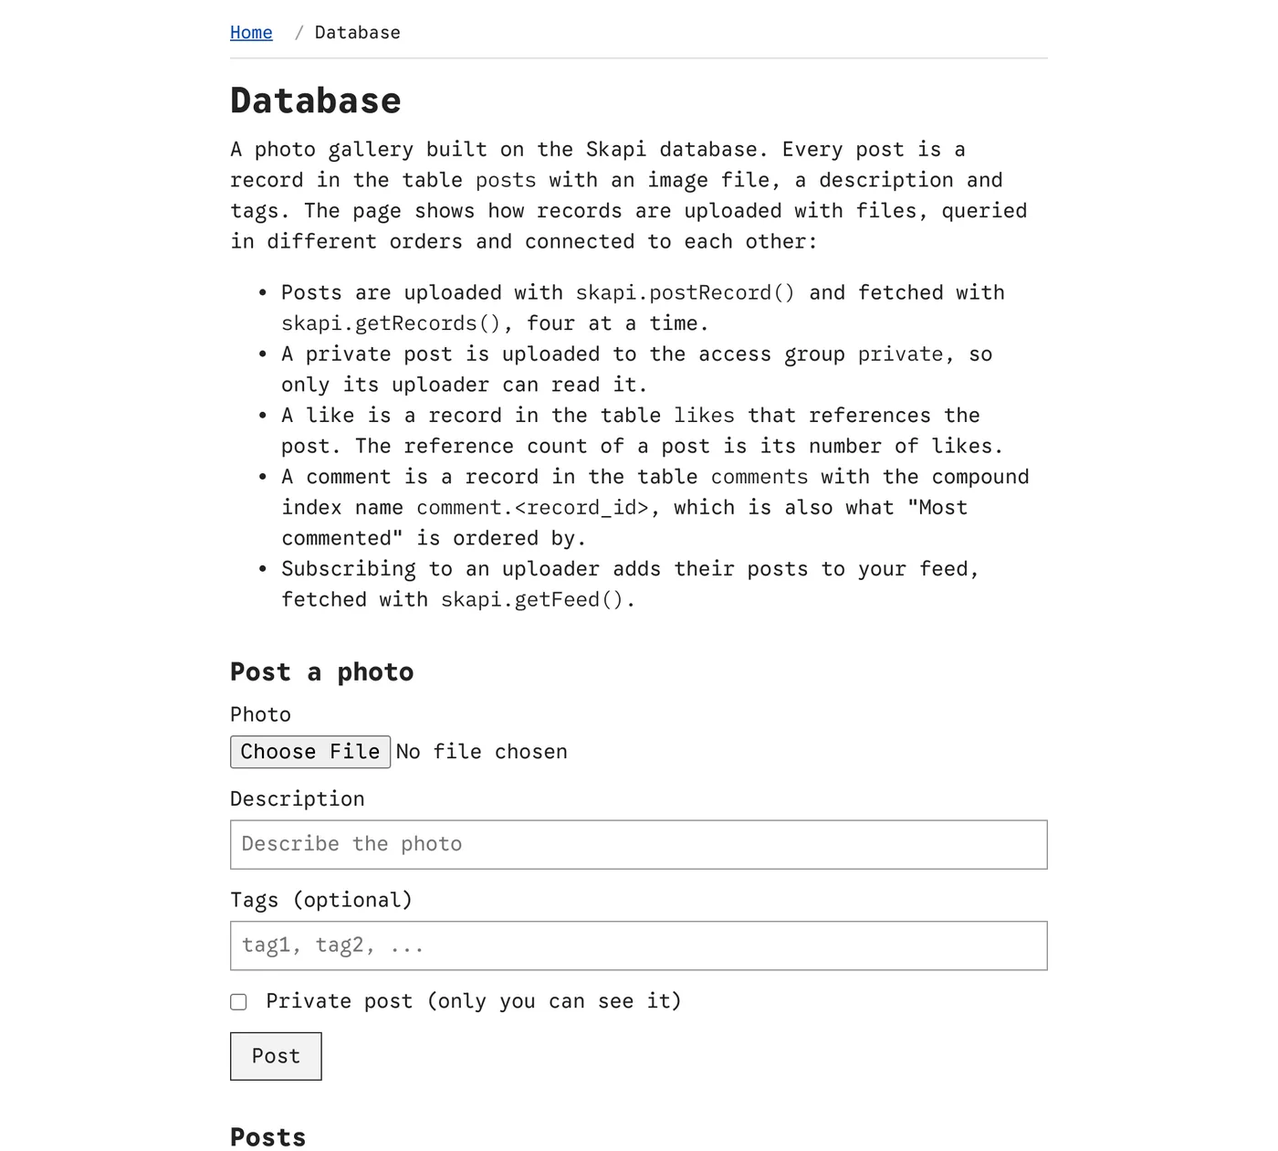
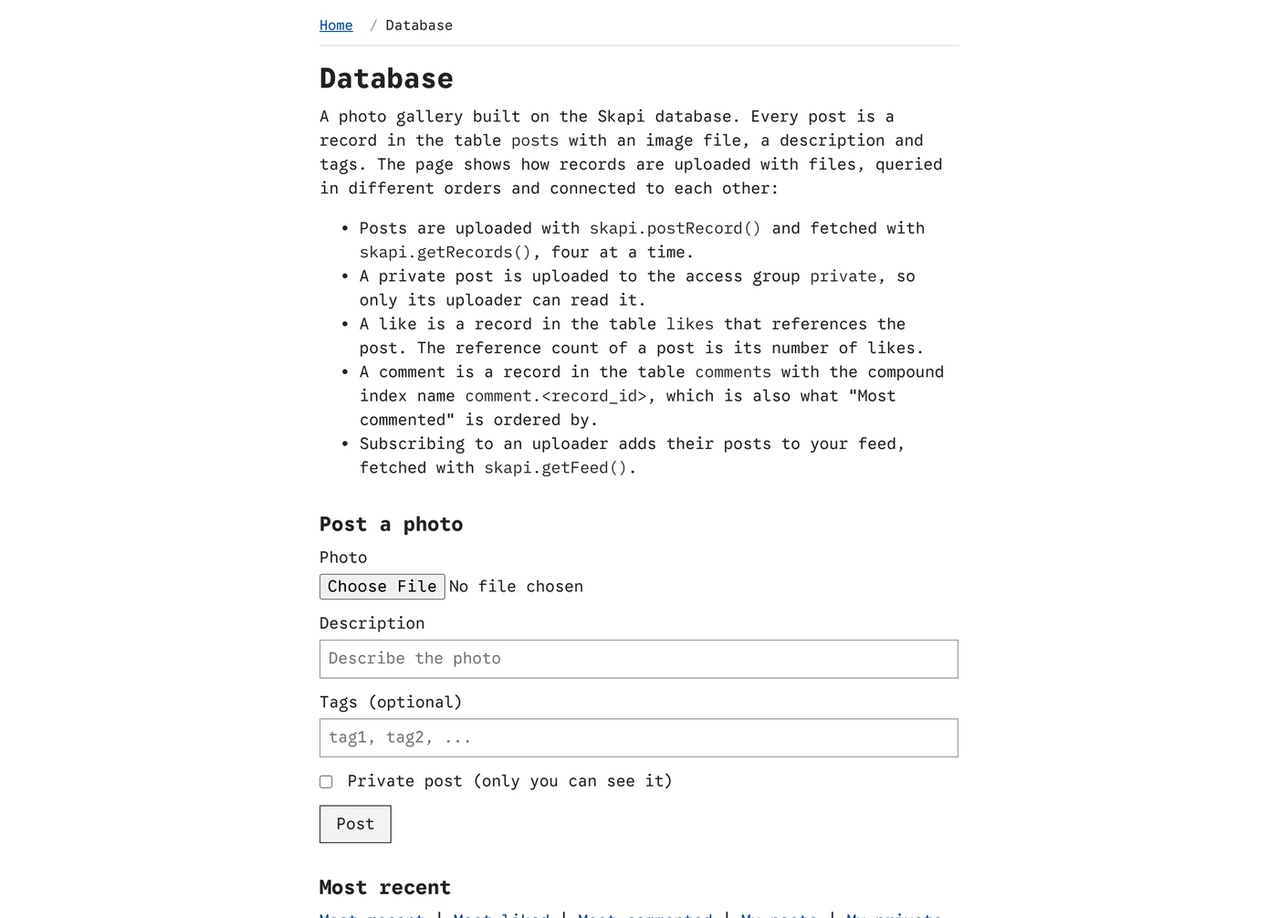
update

diff --git a/full-example/webrtc.md b/full-example/webrtc.md
@@ -1,30 +1,37 @@
 # Full Example: RTC Video Chat
 
-The RTC Video Chat page connects two browsers directly for video, audio, the screen and text with WebRTC, with Skapi doing the signaling over its realtime connection. It needs a logged-in user, and WebRTC works over HTTPS or on `localhost`. Open it in another browser or device with a second account and call each other.
+The RTC Video Chat page is a video call between two users, straight from one browser to the other, with the screen, a text chat and file transfer on the same connection. Skapi does the signaling over its realtime connection. It needs a logged-in user, and WebRTC works over HTTPS or on `localhost`. Open it in another browser or device with a second account and call each other.
 
 <FullExampleDemo page="webrtc.html" label="Open the RTC Video Chat demo" />
 
 You need your [project ID](/full-example/intro.md#have-your-project-id-ready) to open the demo.
 
-![The RTC Video Chat page of the template: an explanation of the signaling, Video, Audio and Screen checkboxes, and the table of users online with a call button per user](/screenshots/template-webrtc.webp)
+![The RTC Video Chat page of the template: a short explanation and the table of users online with a call button per user](/screenshots/template-webrtc.webp)
 
-*`webrtc.html` before a call: what to call with, and the other users on the page, each with a call button.*
+*`webrtc.html` before a call: the other users on the page, each with a call button. The camera and the microphone are always on a call.*
 
-![The page during a call: tiles for your camera, your screen and the other user's camera, buttons to stop sharing, mute the microphone, turn the camera off and hang up, and the data channel message form](/screenshots/template-webrtc-call.webp)
+![The page during a call with both users sharing their screens: four tiles in the order your camera, the other user's camera, your screen and theirs, the buttons, and the chat with its input above the newest message](/screenshots/template-webrtc-call.webp)
 
-*During a call with the screen shared. Each stream has its own tile; the buttons change what is sent without ending the call.*
+*During a call with both screens shared: each side's screen is its own track, so both can share at once. Every tile is 4:3 with the picture centered inside, and the chat keeps the newest message on top, right under the input.*
+
+![The call in fullscreen on a wide screen: the chosen video fills the left, the other videos are thumbnails on the right above the call buttons and the chat](/screenshots/template-webrtc-fullscreen.webp)
+
+*Fullscreen, after clicking a tile: the chosen video on the stage, the others as thumbnails, then the call buttons and the chat, with the input at the bottom. On a phone the layout changes to one video per user; Escape or the Back button leaves fullscreen.*
+
 
 ## What it demonstrates
 
 | Feature | How the page does it |
 | --- | --- |
 | Finding each other | Every visitor of the page joins the realtime group `RTCCall`; `getRealtimeUsers()` and the `USER_JOINED` and `USER_LEFT` notices keep a table of the other users online, with their connection IDs. |
-| Calling | [connectRTC()](/realtime/webRTC.md) with the other user's connection ID and the chosen `media`: the camera, the microphone and the screen, from the checkboxes. `meta` names the kind of call. The call's `connection` promise resolves once the other side accepts. |
-| Receiving a call | The callee gets an `rtc:incoming` realtime message. Its `meta` and `sources` fill the dialog ("Incoming screen share from ... They send their camera, microphone and screen"), and `connectRTC()` on the message accepts with the callee's own checkboxes, or `hangup()` rejects. An `rtc:closed` message closes the dialog when the caller cancels. |
-| The streams | Every `track` event carries `source`. The other user's camera and microphone go to one tile, the screen to another, and `trackmute` hides the screen tile when they stop sharing. The local tiles come from `tracks('camera')` and `tracks('screen')`. |
+| Calling | [connectRTC()](/realtime/webRTC.md) with the other user's connection ID and `media: { audio: true, video: true }`. `meta` names the kind of call. The call's `connection` promise resolves once the other side accepts. |
+| Receiving a call | The callee gets an `rtc:incoming` realtime message. Its `meta` and `sources` fill the dialog, `connectRTC()` on the message accepts, `hangup()` rejects. An `rtc:closed` message closes the dialog when the caller cancels. |
+| The tiles | Four tiles in a fixed order: your camera, the other user's camera, your screen, theirs. Each shows when its track exists. Every `track` event carries `source`, which routes the other user's camera and screen to their tiles; `trackmute` hides the screen tile when they stop sharing. The tiles are 4:3 and the picture is centered inside, never stretched. |
 | Screen sharing during the call | **Share screen** calls `share('screen', { contentHint: 'text' })`, **Stop sharing** calls `unshare('screen')`. The `unshare` event resets the page, also when the browser's own Stop sharing button ends the share. |
 | Mute | **Mute microphone** and **Turn camera off** call `mute({ audio })` and `mute({ video })`. The tracks stay on the call and send silence or black frames. |
-| Text over the data channel | Messages typed on the page are sent over the connection's default data channel, straight between the two browsers, and shown on both sides. |
+| Text chat | Messages go over the connection's default data channel and are shown with the sender's name (or email address), newest first, right under the input. |
+| Files | **Send a file**, first in the row of call buttons, calls [sendFile()](/realtime/webRTC.md#sending-files); the other side gets `fileprogress` events and then a `file` event, shown in the chat as a progress bar that turns into a download link. The file goes straight between the two browsers. |
+| Fullscreen | Clicking a tile puts the call section in fullscreen, with the browser's Fullscreen API where it is allowed and a full-window overlay elsewhere. On a wide screen the clicked video takes the stage and the others become thumbnails above the call buttons and the chat, which then has its input at the bottom. On a phone one video per user is shown, upright on top of each other and sideways side by side, with the buttons and a three line chat; a tap on a video switches it between that user's screen and camera, and a screen the other user starts sharing takes over their view on its own. A `pushState` entry lets the Back button leave fullscreen instead of the page. |
 | Hanging up | `hangup()` on either side ends the call; the `connectionstatechange` event returns both pages to the user list. |
 
 ## Download

diff --git a/api-reference/data-types/README.md b/api-reference/data-types/README.md
@@ -26,12 +26,14 @@ import type {
     RTCConnectorParams,
     RTCEncodingOption,
     RTCEvent,
+    RTCFileInfo,
     RTCIceOption,
     RTCMediaOption,
     RTCMediaSource,
     RTCReceiverParams,
     RTCResolved,
     RTCScreenOption,
+    RTCSendFileOptions,
     RTCShareOptions,
     RealtimeCallback,
     RecordData,
@@ -605,7 +607,7 @@ Applied to every track of the kind, those on the call now and those `share()` ad
 
 ```ts
 type RTCEvent = {
-    type: 'track' | 'trackmute' | 'trackunmute' | 'trackended' | 'unshare' | 'connectionstatechange' | 'close' | 'message' | 'open' | 'bufferedamountlow' | 'error' | 'icecandidate' | 'icecandidateend' | 'icecandidateerror' | 'iceconnectionstatechange' | 'icegatheringstatechange' | 'negotiationneeded' | 'signalingstatechange' | 'ringtimeout';
+    type: 'track' | 'trackmute' | 'trackunmute' | 'trackended' | 'unshare' | 'connectionstatechange' | 'close' | 'message' | 'open' | 'bufferedamountlow' | 'error' | 'file' | 'fileprogress' | 'icecandidate' | 'icecandidateend' | 'icecandidateerror' | 'iceconnectionstatechange' | 'icegatheringstatechange' | 'negotiationneeded' | 'signalingstatechange' | 'ringtimeout';
     [key: string]: any;
 }
 ```
@@ -616,9 +618,23 @@ type RTCEvent = {
 | `trackmute`, `trackunmute`, `trackended` | That track stopped arriving (the other side paused it, took it off the call, or the network stalled), resumed, or is gone for good. Same fields as `track`. |
 | `unshare` | A local track left the call: `track`, `source`, and `ended` (true when the track ended on its own, for example by the browser's own Stop sharing button). |
 | `connectionstatechange` | `state`: `connecting`, `connected`, `disconnected`, `failed` or `closed`. |
-| `open`, `message`, `close`, `error`, `bufferedamountlow` | A data channel event: `label` names the channel, `message` carries `data`. |
+| `open`, `message`, `close`, `error`, `bufferedamountlow` | A data channel event: `label` names the channel, `message` carries `data`. The SDK's own file channel raises `open`, `close` and `error`, never `message`. |
+| `fileprogress`, `file` | A file the other side sends with `sendFile()`: `id`, `name`, `size`, `mime` and, while it arrives, `received`; the `file` event adds `file`, the whole thing as a `File`. |
 | `ringtimeout` | Nobody answered within `ringTimeout`. The call is closed right after; a `connectionstatechange` with `closed` follows. |
 | `negotiationneeded`, `signalingstatechange`, `icecandidate`, `icecandidateend`, `icecandidateerror`, `iceconnectionstatechange`, `icegatheringstatechange` | The browser's own connection events, with the states at that moment. |
+
+## RTCFileInfo
+
+```ts
+type RTCFileInfo = {
+    id: string;
+    name: string;
+    size: number;
+    mime: string; // the file's type, or application/octet-stream when the sender's browser knew none
+}
+```
+
+What `sendFile()` resolves with, and the fields of the `fileprogress` and `file` events on the receiving side.
 
 ## RTCIceOption
 
@@ -681,6 +697,7 @@ type RTCResolved = {
     replace: (what: RTCMediaSource | MediaStreamTrack, track: MediaStreamTrack) => Promise<void>; // swaps a track for another of the same kind, without a new negotiation; the old one is stopped
     mute: (what: { audio?: boolean; video?: boolean; screen?: boolean }) => void; // true pauses, false resumes, omitted leaves it. `video` is the camera and other video, `screen` the screen
     addChannel: (protocol: string, init?: RTCDataChannelInit) => RTCDataChannel; // opens a data channel during the call
+    sendFile: (file: Blob, options?: RTCSendFileOptions) => Promise<RTCFileInfo>; // sends a file straight to the other side, over a reliable channel the SDK opens itself; resolves once the other side has it whole
 }
 ```
 
@@ -693,6 +710,15 @@ type RTCScreenOption = boolean | (DisplayMediaStreamOptions & { contentHint?: 't
 ```
 
 `true` captures the screen with the browser's defaults. The object form is passed to `getDisplayMedia()` (`video`, `audio` for the tab or system sound where the browser offers it), and `contentHint` is set on the video track: `text` keeps text on the screen sharp, `motion` favours smooth movement.
+
+## RTCSendFileOptions
+
+```ts
+type RTCSendFileOptions = {
+    name?: string; // the name the other side gets; the file's own name by default
+    onProgress?: (sent: number, total: number) => void; // bytes handed to the connection so far
+}
+```
 
 ## RTCShareOptions
 

diff --git a/full-example/database.md b/full-example/database.md
@@ -1,6 +1,6 @@
 # Full Example: Database
 
-The Database page is a photo gallery built on the Skapi database. Every post is a record with an image file, a description and tags, and the page shows how records are uploaded with files, queried in different orders and connected to each other. It needs a logged-in user.
+A photo sharing application is the database example on purpose: it is the best way to show what the Skapi database can do, because one real-world app exercises the whole capability at once. Posts are records with a photo file attached, a private post lives in its own access group, a like is a reference from one record to another, a comment hangs on a compound index, tags and reserved indexes drive every view, and subscriptions feed one user's posts to another. Everything on the page is a few lines of `skapi-js` and nothing else. It needs a logged-in user.
 
 <FullExampleDemo page="database.html" label="Open the Database demo" />
 
@@ -9,6 +9,34 @@ You need your [project ID](/full-example/intro.md#have-your-project-id-ready) to
 ![The Database page of the template: an explanation of the gallery, the Post a photo form with a file input, a description, tags and a Private post checkbox, and the Posts section below](/screenshots/template-database.webp)
 
 *`database.html`. The form uploads a post with its photo; the Posts section lists them four at a time.*
+
+![The Post a photo form with a photo chosen and previewed, a description, tags and the Private post checkbox](/screenshots/template-database-post.webp)
+
+*Posting. The chosen photo is previewed before the upload; `postRecord()` takes the form as it is, file included, and shows the upload progress on the button.*
+
+![The Most recent view: its heading, the filter links, then the newest post with its photo, uploader, time, description, tags, like count and comments](/screenshots/template-database-posts.webp)
+
+*The posts, newest first. The heading names the view that is showing, and the links beside it switch between the views. Each post is one record: the photo from its file, the description and tags from its data, the uploader looked up once with `getUsers()`.*
+
+![One post in detail: an Unsubscribe button beside the uploader, one like with the Unlike button, and two comments under the comment form](/screenshots/template-database-detail.webp)
+
+*A post after a like and two comments. The like is a record referencing the post, the comments are records on the index `comment.<record_id>`, and their counts come from the reference count and the index.*
+
+![The Most liked view: only the post that has a like](/screenshots/template-database-mostliked.webp)
+
+*Most liked: the posts ordered by the reserved index `$referenced_count`, the number of records referencing them.*
+
+![The My private posts view: the uploader's private post, which no other user can read](/screenshots/template-database-private.webp)
+
+*My private posts: the same query in the access group `private`. Nobody else can fetch these records.*
+
+![The Feed view: the posts of the uploader the user subscribed to](/screenshots/template-database-feed.webp)
+
+*The feed after subscribing to an uploader: their posts, fetched with `getFeed()`.*
+
+![The posts with the tag bread, reached from a tag link](/screenshots/template-database-tag.webp)
+
+*A tag view: clicking a tag under a post fetches every post carrying it.*
 
 ## What it demonstrates
 
@@ -24,7 +52,7 @@ You need your [project ID](/full-example/intro.md#have-your-project-id-ready) to
 | Deleting a post | [deleteRecords()](/database/delete-records.md) on the user's own posts. |
 | Who posted | [getUsers()](/user-account/get-users.md) fetches the uploader's and each commenter's profile, cached so every user is fetched once. |
 
-The view is chosen with the URL hash (`#mostliked`, `#mostcomment`, `#myposts`, `#myprivate`, `#feed`, `#tag=<tag>`), so each way of querying is a few lines in one function.
+The view is chosen with the URL hash (`#mostliked`, `#mostcomment`, `#myposts`, `#myprivate`, `#feed`, `#tag=<tag>`), so each way of querying is a few lines in one function, and the section heading names the view that is showing.
 
 ## Download
 

diff --git a/full-example/drawing.md b/full-example/drawing.md
@@ -1,28 +1,29 @@
 # Full Example: Shared Drawing
 
-The Shared Drawing page puts two users on one canvas. Every stroke travels over a WebRTC data channel, straight from one browser to the other, and is drawn on the other side as it happens. No video is involved: a stroke is a few numbers, so it costs almost no bandwidth and both sides draw at once. It needs a logged-in user. Open it in another browser or device with a second account and invite each other.
+The Shared Drawing page puts two users on one canvas. Every stroke travels over a WebRTC data channel, straight from one browser to the other, and is drawn on the other side as it happens. No video is involved: a stroke is a few numbers, so it costs almost no bandwidth and both sides draw at once. A text chat rides on the same connection. It needs a logged-in user. Open it in another browser or device with a second account and invite each other.
 
 <FullExampleDemo page="drawing.html" label="Open the Shared Drawing demo" />
 
 You need your [project ID](/full-example/intro.md#have-your-project-id-ready) to open the demo.
 
-![The Shared Drawing page of the template: an explanation of the data channel, a Voice checkbox, and the table of users online with an invite button per user](/screenshots/template-drawing.webp)
+![The Shared Drawing page of the template: an explanation of the data channel and the table of users online with an invite button per user](/screenshots/template-drawing.webp)
 
 *`drawing.html` before a session: the other users on the page, each with an invite button.*
 
-![The page during a session: pen colors, Clear and Leave buttons, and the canvas with strokes from both users](/screenshots/template-drawing-board.webp)
+![The page during a session: pen colors, Clear and Leave buttons, the canvas with strokes from both users, and the chat below it](/screenshots/template-drawing-board.webp)
 
-*Drawing together. Each side draws locally and sends the segment; the other side draws the same segment.*
+*Drawing together. Each side draws locally and sends the segment; the other side draws the same segment. The chat under the board carries the text.*
 
 ## What it demonstrates
 
 | Feature | How the page does it |
 | --- | --- |
 | Finding each other | Every visitor joins the realtime group `RTCDraw`; `getRealtimeUsers()` and the `USER_JOINED` and `USER_LEFT` notices keep the table of users online. |
-| A connection without media | [connectRTC()](/realtime/webRTC.md#data-channels) with `channels: [{ protocol: 'drawing', ordered: true }]` and no media: an ordered, reliable data channel and nothing else. With **Voice** on, `media: { audio: true }` adds the microphone; either side may turn it on for itself. |
-| Saying what the call is | `meta: { kind: 'drawing' }` travels with the invitation, and the callee's dialog says "wants to draw with you" rather than showing a video call. `sources` tells it whether voice is coming. |
+| A connection without media | [connectRTC()](/realtime/webRTC.md#data-channels) with `channels: [{ protocol: 'drawing', ordered: true }, 'text-chat']` and no `media`: an ordered, reliable channel for the strokes, the `text-chat` preset for the chat, and nothing else. No permission prompt, no camera, no microphone. |
+| Saying what the call is | `meta: { kind: 'drawing' }` travels with the invitation, and the callee's dialog says "wants to draw with you" rather than showing a video call. |
 | Strokes over the channel | Pointer events draw on the local canvas and send each segment as JSON (`from`, `to`, `color`, `width`), with positions as fractions of the canvas size. The other side draws the same segment in the `message` event of the `drawing` channel, told apart from other channels by `label`. |
 | Clear | A `clear` message empties both canvases. |
+| Chat | Text goes over the `text-chat` channel and is shown with the sender's name, newest first under the input. |
 | Leaving | `hangup()` on either side; the `connectionstatechange` event returns both pages to the user list and clears the board. |
 
 ## Download

diff --git a/realtime/webRTC.md b/realtime/webRTC.md
@@ -277,6 +277,7 @@ The connection object (what `call.connection` resolves with on the caller's side
 | `replace(what, track)` | Swaps a track for another of the same kind without a new negotiation: a camera switch, another microphone. The old track is stopped. |
 | `mute({ audio, video, screen })` | Pauses or resumes what is sent: `true` pauses, `false` resumes, omitted leaves it. `audio` is the microphone, `video` the camera (and other video), `screen` the screen. A paused track keeps its place on the call and sends silence or black frames; the other side gets no event for it, so tell it over a data channel when its page should show "muted". |
 | `addChannel(name, init)` | Opens a data channel during the call. |
+| `sendFile(file, options)` | Sends a file straight to the other browser. See [Sending files](#sending-files). |
 | `tracks(source)` | The local tracks, all of them or those of one source. |
 | `media`, `meta`, `cid`, `target`, `channels`, `hangup()` | Every local track as one stream, the caller's `meta`, the other side's connection id, the `RTCPeerConnection`, the data channels by label, and the end of the call. |
 
@@ -333,6 +334,29 @@ The preset names `text-chat`, `file-transfer`, `video-chat`, `voice-chat` and `g
 The answering side may open channels of its own with `channels` too. Give the two sides different labels: a channel that arrives from the other side under a label this side already uses is kept as `label#id` in `channels`. A channel both sides should open themselves takes `negotiated: true` and the same `id` on both.
 
 A channel's messages arrive as `message` events with `data` and `label`. When the last data channel of a connection closes, the connection closes with it.
+
+## Sending files
+
+`sendFile()` on the connection sends a file straight to the other browser: nothing is uploaded anywhere. The SDK opens a reliable, ordered data channel of its own the first time either side sends a file, cuts the file into 16 KB pieces, waits whenever the connection's buffer is full, and resolves once the other side has every byte. Files from one side go one after another, so two `sendFile()` calls in a row arrive in that order.
+
+```js
+// the sender, from a file input
+const file = input.files[0];
+const info = await rtc.sendFile(file, { onProgress: (sent, total) => bar.value = sent / total });
+// info: { id, name, size, mime }
+
+// the receiver, in the same callback as everything else
+case 'fileprogress':
+    bar.value = e.received / e.size; // e.id, e.name, e.size, e.mime
+    break;
+case 'file':
+    const link = document.createElement('a');
+    link.href = URL.createObjectURL(e.file); // e.file is a File with the sender's name and type
+    link.download = e.name;
+    break;
+```
+
+The receiving side gets a `fileprogress` event as the file starts, every 256 KB, and at the end, then a `file` event holding the whole file as a `File`. The file is kept in the receiving browser's memory until the page lets go of it, so this is the right tool for documents, pictures and the like, and a video of a few gigabytes is better served another way. `sendFile()` rejects when the call ends before the file is through. The types are [RTCSendFileOptions](/api-reference/data-types/README.md#rtcsendfileoptions) and [RTCFileInfo](/api-reference/data-types/README.md#rtcfileinfo).
 
 ## Viewers that send nothing
 

diff --git a/full-example/realtime.md b/full-example/realtime.md
@@ -10,6 +10,19 @@ You need your [project ID](/full-example/intro.md#have-your-project-id-ready) to
 
 *`realtime.html` before a group is joined: create a group, or pick one from the table.*
 
+![The chat in a group: the messages box with join notices and messages from two users, the participant list beside it, and the message form below](/screenshots/template-realtime-chat.webp)
+
+*In a group. Every message, the sender's included, arrives through the realtime callback and is appended to the box; the list on the right shows who is in the group.*
+
+![The dialog for a private message to one participant, with the message typed in](/screenshots/template-realtime-private.webp)
+
+*Clicking a name in the participant list opens the private message dialog. The message goes to that user only.*
+
+![The dialog the other user sees: Private message from the sender, and the text](/screenshots/template-realtime-private-received.webp)
+
+*What the other user sees: a `private` message opens this dialog.*
+
+
 ## What it demonstrates
 
 | Feature | How the page does it |

diff --git a/full-example/intro.md b/full-example/intro.md
@@ -9,7 +9,7 @@ The full example is a plain HTML and JavaScript template that shows every Skapi 
 | [Send Inquiry](/full-example/inquiry.md) | A contact form that sends a message to you, the project owner. |
 | [Database](/full-example/database.md) | A photo gallery: upload posts with files, like, comment, subscribe to other users and query posts in different ways. |
 | [Realtime Chat](/full-example/realtime.md) | Group chat and private messages over a WebSocket connection. |
-| [RTC Video Chat](/full-example/webrtc.md) | Video calls, screen sharing and a data channel between two users with WebRTC. |
+| [RTC Video Chat](/full-example/webrtc.md) | Video calls, screen sharing, text chat and file transfer between two users with WebRTC. |
 | [Shared Drawing](/full-example/drawing.md) | Two users draw on one canvas; every stroke travels over a WebRTC data channel. |
 
 ## Have your project ID ready

diff --git a/versionlog/versions.md b/versionlog/versions.md
@@ -1,6 +1,11 @@
 # Version History
 
-### Current version: 2.2.14
+### Current version: 2.2.15
+
+**2.2.15**
+
+- **Files go straight to the other browser.** The connection object gains `sendFile(file, { name, onProgress })`: the SDK opens a reliable data channel of its own on first use, sends the file in order with back-pressure, and resolves once the other side has it whole. The other side gets `fileprogress` events and a `file` event holding a `File`. Nothing is stored on a server. A send that is still waiting when the call ends rejects. See [Sending files](/realtime/webRTC.md#sending-files).
+- Types: `RTCFileInfo` and `RTCSendFileOptions` are exported, and the connection's event `type` gains `file` and `fileprogress`.
 
 **2.2.14**
 
